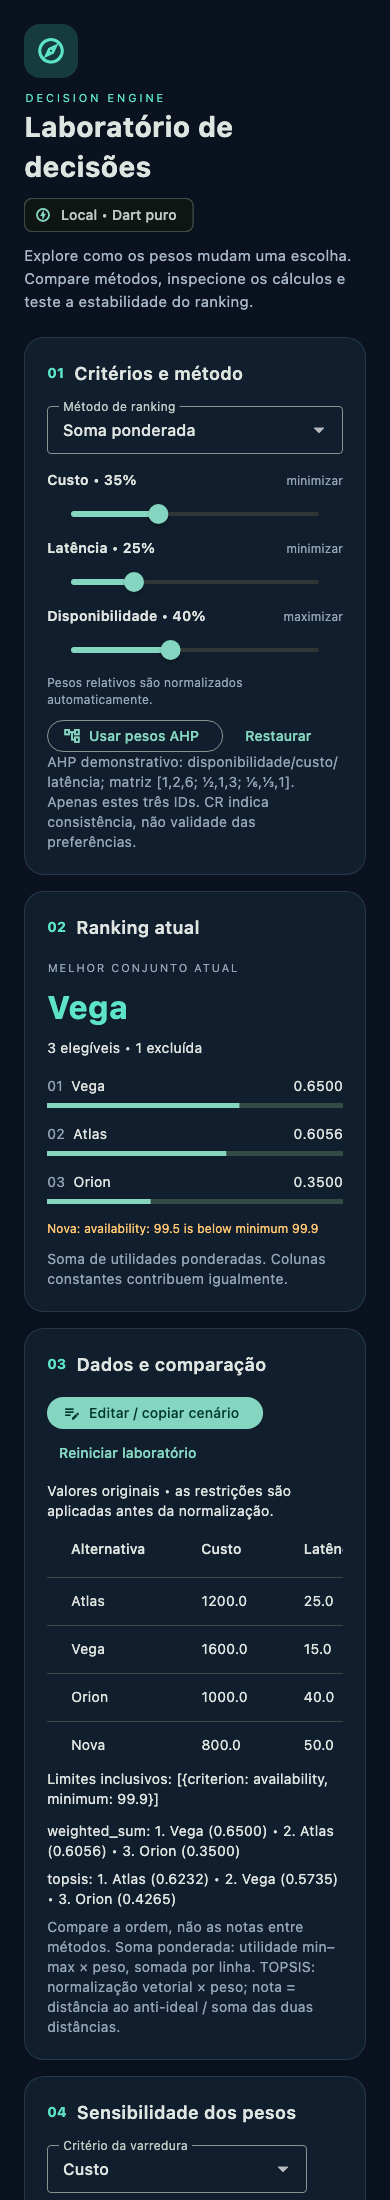
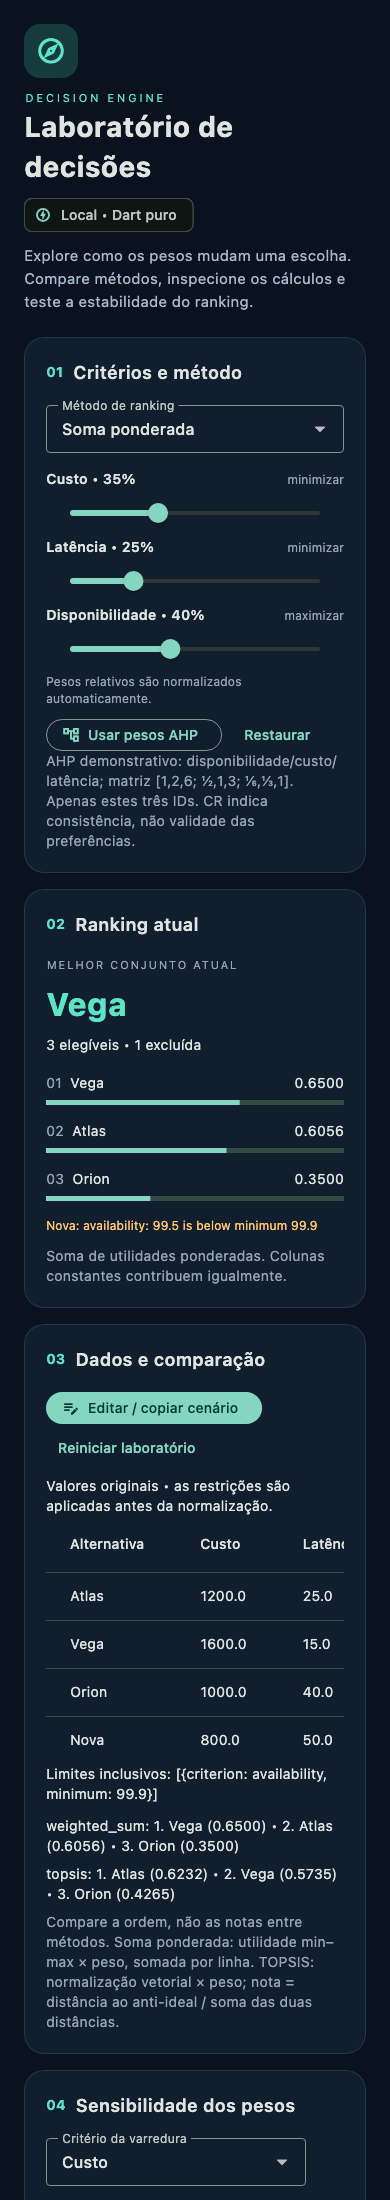
fix: keep lab interaction ink visible on Flutter 3.50
Replace decorated panels with Material surfaces after CI widget failures exposed obscured ListTile ink. Exercise textual sample expansion and revalidate 10 lab tests, analysis, Web build and native captures.

diff --git a/example/flutter_lab/lib/main.dart b/example/flutter_lab/lib/main.dart
@@ -215,27 +215,33 @@ class _DecisionDashboardState extends State<DecisionDashboard> {
     )));
   }
 
-  Widget panel(String number, String title, Widget body) => Container(
-        width: double.infinity,
-        padding: const EdgeInsets.all(22),
-        decoration: BoxDecoration(
-            color: const Color(0xFF111E2D),
+  Widget panel(String number, String title, Widget body) => Material(
+        color: const Color(0xFF111E2D),
+        shape: RoundedRectangleBorder(
             borderRadius: BorderRadius.circular(20),
-            border: Border.all(color: const Color(0xFF26374A))),
-        child: Column(crossAxisAlignment: CrossAxisAlignment.start, children: [
-          Row(children: [
-            Text(number,
-                style: const TextStyle(
-                    color: Color(0xFF5DE4C7), fontWeight: FontWeight.bold)),
-            const SizedBox(width: 10),
-            Expanded(
-                child: Text(title,
+            side: const BorderSide(color: Color(0xFF26374A))),
+        clipBehavior: Clip.antiAlias,
+        child: Padding(
+          padding: const EdgeInsets.all(22),
+          child: SizedBox(
+            width: double.infinity,
+            child:
+                Column(crossAxisAlignment: CrossAxisAlignment.start, children: [
+              Row(children: [
+                Text(number,
                     style: const TextStyle(
-                        fontSize: 18, fontWeight: FontWeight.w600)))
-          ]),
-          const SizedBox(height: 20),
-          body,
-        ]),
+                        color: Color(0xFF5DE4C7), fontWeight: FontWeight.bold)),
+                const SizedBox(width: 10),
+                Expanded(
+                    child: Text(title,
+                        style: const TextStyle(
+                            fontSize: 18, fontWeight: FontWeight.w600)))
+              ]),
+              const SizedBox(height: 20),
+              body,
+            ]),
+          ),
+        ),
       );
 
   Widget controlsBody(double total) =>

diff --git a/example/flutter_lab/test/lab_test.dart b/example/flutter_lab/test/lab_test.dart
@@ -15,6 +15,11 @@ void main() {
     expect(find.byKey(const Key('score-chart')), findsOneWidget);
     expect(find.text('3 elegíveis • 1 excluída'), findsOneWidget);
     expect(find.textContaining('21 cenários'), findsOneWidget);
+    await tester.ensureVisible(find.text('Amostras em texto'));
+    await tester.tap(find.text('Amostras em texto'));
+    await tester.pumpAndSettle();
+    expect(find.text('0%: Vega'), findsOneWidget);
+    expect(find.text('100%: Orion'), findsOneWidget);
     expect(tester.takeException(), isNull);
   });
 

diff --git a/doc/lab_validation.md b/doc/lab_validation.md
@@ -51,6 +51,12 @@ GitHub metadata initially had eight relevant topics and no homepage or Pages
 site. Pages was configured to build via Actions; the workflow deploys only on
 `main`, after both Dart SDK jobs, Flutter consumer and Flutter lab pass. It uses
 the explicit `/decision-engine/` base path and GitHub's deployment environment.
+The first remote run,
+[44168753596](https://github.com/kleberandrade/decision-engine/actions/runs/44168753596),
+passed both Dart jobs and the consumer. Flutter **3.50.0** exposed the lab's
+obscured ListTile ink via a framework assertion. The already-failing widget suite
+was retained; panels now paint on shaped Material surfaces and the textual
+sample expansion is also exercised. Local tests/build passed again after the fix.
 Final run and deployment evidence is appended after remote verification.
 
 The pub.dev API independently reported hosted **0.3.0**, publisher

diff --git a/doc/engineering_log.md b/doc/engineering_log.md
@@ -151,3 +151,9 @@
   validation/publication outcomes are recorded in doc/lab_validation.md.
 - The specialized crapper/dryer/mutator tools are unavailable in this session;
   scenario boundary and public behavior tests were used for concrete validation.
+
+- CI run 44168753596 passed Dart minimum/stable and consumer checks but exposed
+  Flutter 3.50's assertion that the new ExpansionTile ink was obscured by the
+  panel's DecoratedBox. Existing widget tests failed before the fix. Replaced
+  the panel decoration with a shaped Material surface, preserving appearance
+  while giving controls a visible ink ancestor; revalidated locally before push.

diff --git a/CHANGELOG.md b/CHANGELOG.md
@@ -7,6 +7,8 @@
 - Show simultaneous weighted-sum/TOPSIS rankings, normalized/weighted matrices,
   distance diagnostics and accessible textual sensitivity samples.
 - Add bilingual scenario guides and a test-gated GitHub Pages deployment.
+- Paint lab panels with Material so interaction ink remains visible on Flutter
+  3.50, as required by the framework assertion.
 - PT: cenários reproduzíveis e editáveis, comparação dos métodos, amostras
   acessíveis e publicação do laboratório após validações.
 
